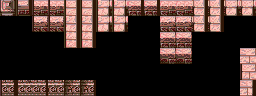
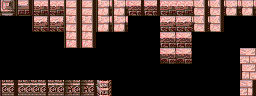
working on palettes

Changed region(s): [[0.375, 0.8125, 0.4375, 1.0]]

diff --git a/app/dungeon_maker/terrain_maker.py b/app/dungeon_maker/terrain_maker.py
@@ -46,6 +46,15 @@ class Terrain():
             TILEWIDTH, TILEHEIGHT))
         return im.copy()
 
+class SimpleTerrain(Terrain):
+    def __init__(self, tileset_image_fn):
+        self.tileset_image = engine.image_load(tileset_image_fn)
+        self.limits = {k: self._find_limit(k) for k in range(1)}
+
+    def determine_sprite(self, tilemap, pos: tuple) -> engine.Surface:
+        coord = random_choice([(0, k) for k in range(self.limits[0])], pos)
+        return self.get_image16(self.tileset_image, coord)
+
 class WangEdge2Terrain16(Terrain):
     def __init__(self, tileset_image_fn):
         self.tileset_image = engine.image_load(tileset_image_fn)
@@ -266,7 +275,7 @@ class StairsLeftTerrain(Terrain):
 class StairsRightTerrain(StairsLeftTerrain):
     terrain_like = ('StairsRight', )
 
-class PillarTerrain(Terrain):
+class PillarTerrain(SimpleTerrain):
     terrain_like = ('Pillar', )
 
 def get_terrain(palette: str):
